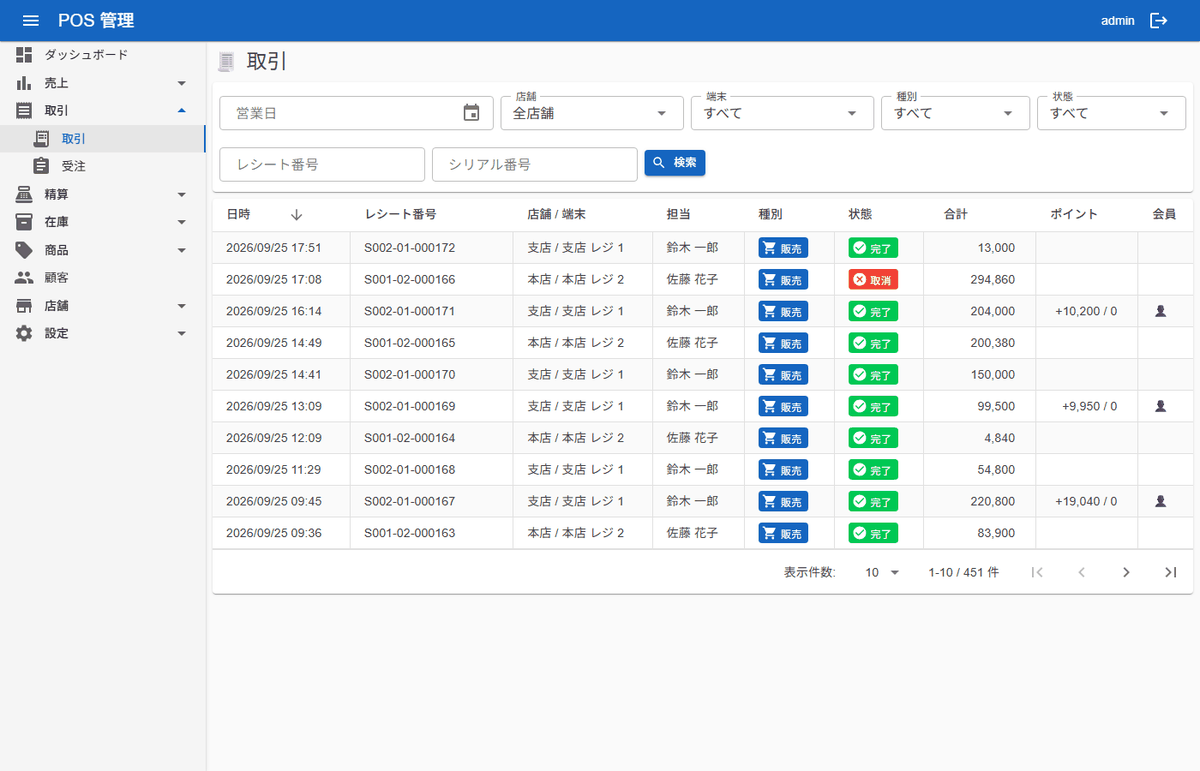
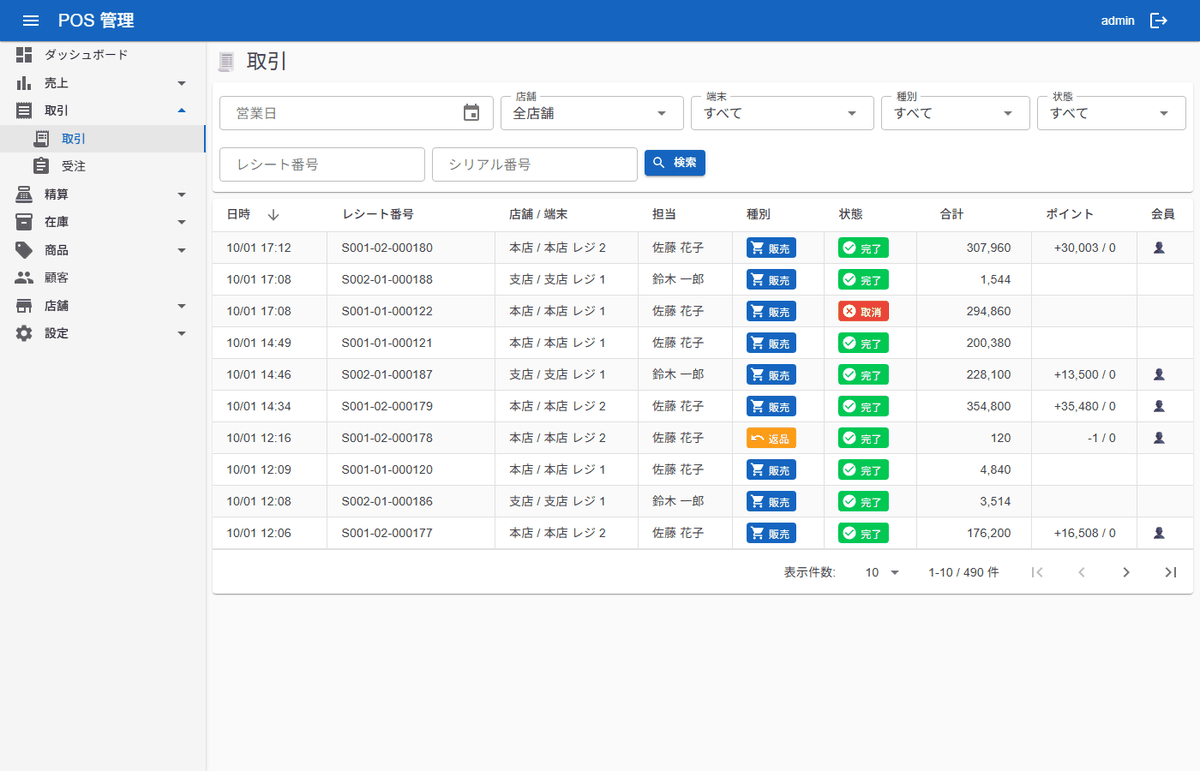
管理画面の日時と絞り込みの欄を規則に合わせる
- 取引一覧・在庫の変動・ダッシュボードの開設中シフト・受注の前受金の日時を年なしにする (会員と在庫の一覧は何年も前の日時が並ぶので年付きのまま残し、規則に例外として書く)
- 会員・在庫・商品の検索欄に search-field を付ける
- ダイアログの商品の表示を ToDisplayText にそろえ、使われていない CSS のクラスを消す
- 絞り込みの欄の幅の規則を今の画面に合わせる (選択と商品を選ぶ欄は行に合わせて伸ばす)
- README の取引の画像を撮り直す

diff --git a/server/src/Pos.Server.Host/wwwroot/css/app.css b/server/src/Pos.Server.Host/wwwroot/css/app.css
@@ -51,10 +51,6 @@ body {
     max-width: 400px;
 }
 
-.settings-card {
-    max-width: 480px;
-}
-
 .progress-card {
     min-width: 320px;
 }
@@ -71,14 +67,6 @@ body {
 
 .search-field {
     max-width: 240px;
-}
-
-.search-field-wide {
-    max-width: 360px;
-}
-
-.selector-field {
-    max-width: 300px;
 }
 
 .wide-card {
@@ -145,6 +133,10 @@ body {
     min-width: 280px;
 }
 
+.min-w-320 {
+    min-width: 320px;
+}
+
 /* テーブルの列幅 */
 .w-100 {
     width: 100px;
@@ -156,14 +148,6 @@ body {
 
 .w-120 {
     width: 120px;
-}
-
-.min-w-320 {
-    min-width: 320px;
-}
-
-.hidden-input {
-    display: none;
 }
 
 /* Error banner */

diff --git a/server/src/Pos.Server.Host/Application/ViewExtensions.cs b/server/src/Pos.Server.Host/Application/ViewExtensions.cs
@@ -39,7 +39,7 @@ public static class ViewExtensions
 
     public static string ToDateTimeText(this DateTime? utc) => utc is null ? "-" : utc.Value.ToDateTimeText();
 
-    // 一覧の日時 (営業日の列があるので年を省く)
+    // 一覧の日時 (年を省く。何年も前の日時が並ぶ会員と在庫の一覧は ToDateTimeText にする)
     public static string ToShortDateTimeText(this DateTime utc) => DateTime.SpecifyKind(utc, DateTimeKind.Utc).ToLocalTime().ToString("MM/dd HH:mm", CultureInfo.InvariantCulture);
 
     public static string ToShortDateTimeText(this DateTime? utc) => utc is null ? "-" : utc.Value.ToShortDateTimeText();

diff --git a/.claude/rules/server-ui.md b/.claude/rules/server-ui.md
@@ -18,6 +18,8 @@ paths:
 - 変更の通知 (`ChangeNotificationService`) を購読する画面は、イベントの中で読み込まず、タイマーを掛け直して `InvokeAsync` で読み直し、Dispose で購読を外す
 - razor の表示用の加工は `Application/ViewHelper` と `ViewExtensions` だけに置き、ページで書式 (`:N0`、`ToString("MM/dd")`) を組まない (グラフの軸の書式とラベルは除く)
 - 一覧の日時は年なしの `ToShortDateTimeText()`、詳細は `ToDateTimeText()` にする
+- 例外として、会員と在庫の一覧 (会員一覧の登録日、会員詳細のタブの表、在庫の更新日時) は、何年も前の日時が並ぶので年付きの `ToDateTimeText()` にする
+- 詳細のダイアログの中の表 (受注の前受金、締めのシフト) の日時は、一覧と同じにする
 - CSV や PDF のダウンロード URL はページで組み立てず、`Application/Urls/ExportUrls` で作る
 
 ## ダイアログとフォーム
@@ -36,7 +38,9 @@ paths:
 - 説明の文言は、画面からわからない業務の規則 (役割でできること、登録できる件数、入力の決まり) と、操作の結果 (ログアウトする、取消できなくなる) を伝えるために使う
 - 横スクロールする `MudDataGrid` は `grid-nowrap` と `HorizontalScrollbar="true"` にし、操作列を `StickyRight="true"` にする
 - 名称のように折り返してよい列は `CellClass="cell-wrap"` にし、`min-w-*` で最小の幅を付ける (`grid-nowrap` が表の `width: max-content` を `100%` に戻すので、幅が足りないときだけ折り返す)
-- 絞り込みの入力欄は行の残りいっぱいに伸びるので、期間 (`MudDateRangePicker`) は `filter-range`、文字の検索欄は `search-field`、選択は `filter-select` で上限を付け、他は `min-w-*` にする
+- 絞り込みの入力欄は行の残りいっぱいに伸びるので、期間 (`MudDateRangePicker`) は `filter-range`、単一の日付 (`MudDatePicker`) は `filter-select` で上限を付ける
+- 文字の検索欄 (`MudTextField`) は `min-w-*` と `search-field` を併記する (`min-w-*` が 240px より広いと、幅はその値で止まる)
+- 選択 (`MudSelect`、`StoreSelect`、商品を選ぶ `MudAutocomplete`) は `min-w-*` だけにし、行に合わせて伸ばす (`MudAutocomplete` の `Class` は外側の枠に付かず、上限を付けると隙間ができる)
 - `MudTable` の `FooterContent` は `<tr>` の中に描画されるので `MudTFootRow` を書かず `MudTd` を直接置く (太字は `FooterClass`)
 - 見出しに付ける件数の `MudBadge` は見出しの右に縦中央で並べる (`Origin="Origin.CenterRight"`、`BadgeClass="ml-1"`)。`Overlap` で右上に重ねない (見出しの余白の分だけ行から浮く)
 - `MudChart` の大きさは `Height` で決める (描画領域は 650×400 の比率で高さに合わせて拡大される)
